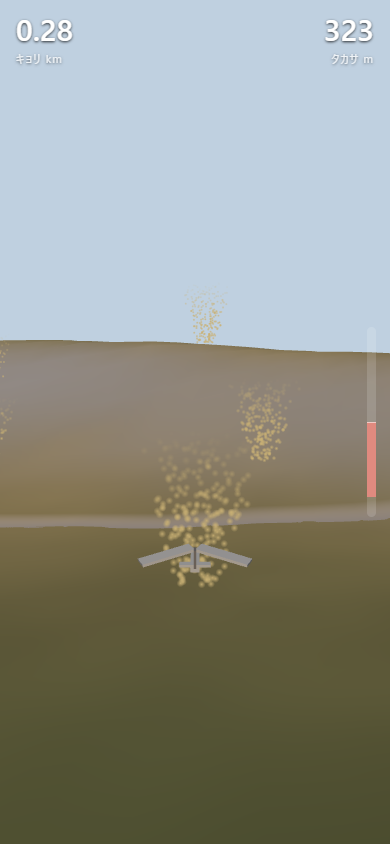
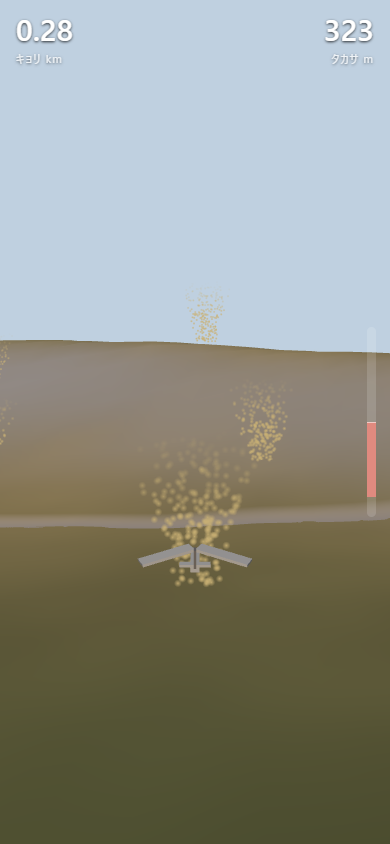
丘の起伏を既定にし、まっすぐ滑空したら着く場所を地面に出した
所長の試走: 尾根の風は分からなかった。2回とも山の斜面に正面から激突。
起伏があるだけで「避けるか越えるか」の戦略になる、という提案を受けた。

- 既定の世界を丘(最大220m)に。尾根の風は既定で無効(?world=flat / ?world=ridge は残す)
- glideReach: 上昇風を当てにせず直進したときの着地点。予測と実際のずれは60件で最大55m
- 着地点をオレンジの輪と柱で表示。旋回中は薄くする。最初は細いクリーム色で見えなかった
- 土ぼこりは画面に大きく映る粒ほど薄く。近い柱が空一面をふさいでいた
- 自動操縦(8シード): 起伏なし8.9km/激突0 → 丘220m 7.5km/上り坂に激突3

Changed region(s): [[0.4, 0.5545, 0.6154, 0.7085], [0.4923, 0.3389, 0.5846, 0.4313], [0.6154, 0.4929, 0.7385, 0.5545]]

diff --git a/src/scene.js b/src/scene.js
@@ -1,5 +1,6 @@
 import * as THREE from 'three';
 import { TUNE } from './world.js';
+import { glideReach } from './flight.js';
 
 // three.jsは右手系で、+X は画面の左に出る。
 // シミュレーション側の x(右が正) をそのまま渡すと左右が反転するので、描画のときだけ反転させる。
@@ -81,11 +82,13 @@ const DUST_VERT = [
   'attribute float aAlpha;',
   'varying float vA;',
   'uniform float uSize;',
+  'uniform float uMax;',
   'void main(){',
   '  float dist = -(modelViewMatrix * vec4(position, 1.0)).z;',
-  '  vA = aAlpha * clamp((dist - 30.0) / 150.0, 0.0, 1.0);',   // 近すぎる粒は消す(視界を塞ぐ)
+  '  vA = aAlpha * clamp((dist - 80.0) / 320.0, 0.0, 1.0);',   // 近い粒は消す。柱の中や真下にいると空一面をふさいでいた
   '  vec4 mv = modelViewMatrix * vec4(position, 1.0);',
-  '  gl_PointSize = clamp(uSize * (900.0 / max(-mv.z, 1.0)), 3.0, 30.0);',
+  '  gl_PointSize = clamp(uSize * (900.0 / max(-mv.z, 1.0)), 3.0, uMax);',
+  '  vA *= clamp(9.0 / gl_PointSize, 0.3, 1.0);',   // 大きく映るほど薄く(近い柱は気配だけ、遠い柱はくっきり)
   '  gl_Position = projectionMatrix * mv;',
   '}',
 ].join('\n');
@@ -113,7 +116,7 @@ class Dust {
     g.setAttribute('aAlpha', new THREE.BufferAttribute(this.alpha, 1));
     this.geo = g;
     this.mat = new THREE.ShaderMaterial({
-      uniforms: { uSize: { value: 9.0 }, uColor: { value: new THREE.Color(0xe6d9b4) }, uFade: { value: 1 } },
+      uniforms: { uSize: { value: 9.0 }, uMax: { value: 18.0 }, uColor: { value: new THREE.Color(0xe6d9b4) }, uFade: { value: 1 } },
       vertexShader: DUST_VERT, fragmentShader: DUST_FRAG,
       transparent: true, depthWrite: false,
     });
@@ -164,7 +167,7 @@ class Clouds {
     g.setAttribute('aAlpha', new THREE.BufferAttribute(this.alpha, 1));
     this.geo = g;
     this.mat = new THREE.ShaderMaterial({
-      uniforms: { uSize: { value: 150.0 }, uColor: { value: new THREE.Color(0xffffff) }, uFade: { value: 1 } },
+      uniforms: { uSize: { value: 150.0 }, uMax: { value: 34.0 }, uColor: { value: new THREE.Color(0xffffff) }, uFade: { value: 1 } },
       vertexShader: DUST_VERT, fragmentShader: DUST_FRAG,
       transparent: true, depthWrite: false,
     });
@@ -256,6 +259,15 @@ export class View {
     this.dust = new Dust(field);
     this.clouds = new Clouds(field);
     this.scene.add(this.dust.points, this.clouds.points);
+    // このまままっすぐ滑空したら着く場所。地面の輪と細い柱で示す
+    const reachMat = new THREE.MeshBasicMaterial({ color: 0xff8a2a, transparent: true, opacity: 0.95,   // 土ぼこり(クリーム)と見分ける色
+      depthTest: false, depthWrite: false, fog: false, side: THREE.DoubleSide });
+    this.reachRing = new THREE.Mesh(new THREE.RingGeometry(0.55, 1, 48), reachMat);
+    this.reachRing.rotation.x = -Math.PI / 2;
+    this.reachPole = new THREE.Mesh(new THREE.CylinderGeometry(1, 1, 1, 6), reachMat);
+    this.reachRing.renderOrder = this.reachPole.renderOrder = 5;
+    this.scene.add(this.reachRing, this.reachPole);
+    this.reach = null;
     this.glider = makeGlider();
     this.scene.add(this.glider);
     this.fog = new THREE.FogExp2(0xbfd0e0, 0.000075);
@@ -309,6 +321,19 @@ export class View {
     this.dust.update(g.x, g.y, dt, sun);
     this.clouds.update(g.x, g.y, sun);
     this.glider.position.set(SX * g.x, g.z, g.y);
+    // 着地点: 旋回中は向きが変わり続けて意味がないので、傾けるほど薄くする
+    const r = this.reach = glideReach(g);
+    const fade = Math.max(0, 1 - Math.abs(g.bank) / (25 * Math.PI / 180));
+    const on = g.alive && r.hit && fade > 0.02;
+    this.reachRing.visible = this.reachPole.visible = on;
+    if (on) {
+      const k = Math.max(28, r.dist * 0.055);               // 遠くても見える大きさ(1km先で約55m)
+      this.reachRing.position.set(SX * r.x, r.z + 2, r.y);
+      this.reachRing.scale.setScalar(k);
+      this.reachPole.position.set(SX * r.x, r.z + k * 1.5, r.y);
+      this.reachPole.scale.set(k * 0.16, k * 3.0, k * 0.16);
+      this.reachRing.material.opacity = 0.95 * fade;
+    }
     this.glider.rotation.set(0, -g.head, g.bank, 'YXZ');
     // 夕暮れ。時計ではなく空の色で残り時間が分かる
     const day = new THREE.Color(0xbfd0e0), dusk = new THREE.Color(0xd98a5a), night = new THREE.Color(0x2b3348);

diff --git a/src/world.js b/src/world.js
@@ -57,6 +57,13 @@ export class Terrain {
         }
       }
       mtn += 0.12 * TUNE.mtnHeight * ridged(x / 1400, y / 1400, this.seed + 71) * smoothstep(TUNE.mtnStart, TUNE.mtnStart + TUNE.mtnRamp, d);
+    } else if (TUNE.mtn && TUNE.mtnMode === 'hills') {
+      // 丘と峠。平らな所を残しつつ、ところどころ越えるか避けるかを迫る高さにする。
+      // 川沿いも完全には平らにしない(川に沿っていれば安全、にならないように)
+      const b = fbm(x / TUNE.mtnWave, y / TUNE.mtnWave, this.seed + 71, 4);
+      const r = ridged(x / (TUNE.mtnWave * 0.8), y / (TUNE.mtnWave * 0.8), this.seed + 83, 3);
+      const shape = Math.max(0, 0.6 * b + 0.4 * r - 0.35) / 0.65;
+      mtn = TUNE.mtnHeight * shape * shape * (0.4 + 0.6 * smoothstep(150, 1300, d));
     } else if (TUNE.mtn) {
       mtn = TUNE.mtnHeight * ridged(x / TUNE.mtnWave, y / (TUNE.mtnWave * 2.6), this.seed + 71)
         * smoothstep(TUNE.mtnStart, TUNE.mtnStart + TUNE.mtnRamp, d);
@@ -107,6 +114,8 @@ export const TUNE = {
 // 尾根の試作で、尾根沿いに飛べると測れた山脈の設定(tools/ridge-band.mjs: 86%の区間で高度を保てる・最長2.5km・斜面から150m)
 export const WORLDS = {
   flat: {},
+  // 既定。尾根の風は使わず、起伏そのものを「避けるか越えるか」の判断にする(所長の試走 2026-09-17)
+  hills: { mtn: 1, mtnMode: 'hills', mtnHeight: 220, mtnWave: 2400 },
   ridge: { mtn: 1, mtnMode: 'ranges', mtnHeight: 550, rangeWidth: 700, windSpeed: 11, ridgeH: 240, leeCap: 2.5 },
 };
 

diff --git a/src/flight.js b/src/flight.js
@@ -15,6 +15,19 @@ export const sink = V => AIR.c1 / V + AIR.c2 * V * V;
 export const glideRatio = V => V / sink(V);
 // 実際に届く距離は、上昇風の外の沈下こみで決まる。ここを忘れると届かない柱へ突っ込む。
 export const effGlide = V => V / (sink(V) + TUNE.ambient);
+// このまま同じ向きにまっすぐ滑空したら、どこで地面に着くか。上昇風は当てにしない。
+// 地面にぶつかる危険は、いつでも画面から読めるようにするための計算
+export function glideReach(g, maxDist = 9000, step = 60) {
+  const V = AIR.Vcruise, drop = step / effGlide(V);
+  const sx = Math.sin(g.head), sy = Math.cos(g.head);
+  let x = g.x, y = g.y, z = g.z;
+  for (let d = step; d <= maxDist; d += step) {
+    x += sx * step; y += sy * step; z -= drop;
+    const h = g.t.height(x, y);
+    if (z <= h + 2) return { x, y, z: h, dist: d, hit: true };
+  }
+  return { x, y, z: g.t.height(x, y), dist: maxDist, hit: false };
+}
 export const sunlight = t => { const u = Math.max(0, Math.min(1, t / AIR.day)); return Math.max(0, 1 - u * u); };
 
 export class Glider {

diff --git a/src/main.js b/src/main.js
@@ -23,7 +23,7 @@ const ui = {
   start: el('start'), go: el('go'),
 };
 
-const WORLD = WORLDS[q.get('world')] ? q.get('world') : 'flat';
+const WORLD = WORLDS[q.get('world')] ? q.get('world') : 'hills';   // 既定は丘のある世界。?world=flat で起伏なし
 Object.assign(TUNE, WORLDS[WORLD]);
 if (WORLD === 'ridge') {
   const p = document.querySelector('#start p');
@@ -174,6 +174,7 @@ window.__slice = {
   ridgeAt(x, y, z) { return field.ridgeAt(x, y, z, sunlight(glider.time)); },
   terrainHeight(x, y) { return terrain.height(x, y); },
   riverX(y) { return terrain.riverX(y); },
+  reach() { return view.reach; },
   forceInput: null,
   _view() { return { camHead: view.camHead, dust: view.dust.points, clouds: view.clouds.points,
                      local: (x, y, z) => view.projectLocal(x, y, z),

diff --git a/index.html b/index.html
@@ -60,7 +60,8 @@
       操作は左右だけ。<kbd>←</kbd><kbd>→</kbd>、スマホは画面の左半分／右半分を押しっぱなし。<br>
       押している間だけ曲がります。<br><br>
       右の帯と音が上がっていれば、上昇気流の芯に近い。<br>
-      日が傾くと空気は上がらなくなります。降りたところが記録。
+      日が傾くと空気は上がらなくなります。降りたところが記録。<br>
+      地面の光る輪は、このまままっすぐ滑空したら着く場所。丘の手前に落ちたら越えられません。
     </p>
     <div id="cams" role="radiogroup" aria-label="カメラ">
       <button type="button" data-cam="a" role="radio">水平キープ</button>

diff --git a/docs/FINDINGS.md b/docs/FINDINGS.md
@@ -153,3 +153,29 @@ Astraに山を頼む前に、使える寸法を決めるための試作。
 ### Astraに頼むなら（この試作から決まった条件）
 - 形: 進行方向に長くつながった山脈。高さ約550m、裾の広さ約700m（最大傾斜およそ34度）、2.5kmおきに鞍部
 - 受け渡し: 見た目のモデルではなく、飛行計算が読める形（高さマップ16bit PNG、または作り方の式）
+
+## 尾根の風は不採用 → 丘の起伏と着地点の印（2026-09-17 所長の試走から）
+
+所長: 「山風はよくわからんかった」。2回とも山の斜面に正面から激突して終わった（高度2m、斜面が目の前）。
+→ 後ろから追うカメラでは「この先の山を越えられるか」が読めない。尾根の風は見えない上昇と斜面すれすれの怖さが重なる。
+所長の提案: 起伏があるだけで「避けるか越えるか」の戦略になる。山へ向かうと地面との余裕は必然的に削られる。
+
+**変えたこと**
+- 既定の世界を「丘」に（`WORLDS.hills`、高さ最大220m、平地を残す）。尾根の風は既定で無効。`?world=flat` で起伏なし、`?world=ridge` は残す
+- **このまままっすぐ滑空したら着く場所**をオレンジの輪と柱で地面に出す（上昇風は当てにしない計算）。旋回中は傾けるほど薄くする
+  - 予測と実際の着地点のずれ: 60件で最大55m（tools/check-reach.mjs）
+  - 最初は色がクリームで細く、土ぼこりに埋もれて見えなかった。オレンジ・太く・1km先で約55mの大きさにした
+- 土ぼこりは画面に大きく映る粒ほど薄く（近い柱が空一面をふさいでいた）。手がかりの面積 3.7% → 2.8%（遠い柱は変わらず）
+
+**自動操縦での比較（tools/tune-hills.mjs、8シード）**
+
+| 条件 | 飛距離 | 静かな空気を滑るだけの最長 | 上り坂に激突して終わり |
+|---|---|---|---|
+| 起伏なし | 8.9km | 60秒 | 0/8 |
+| 丘160m | 7.2km | 62秒 | 1/8 |
+| **丘220m（採用）** | **7.5km** | **20秒** | **3/8** |
+| 丘300m | 6.2km | 14秒 | 2/8 |
+
+自動操縦は着地点の印を使わない。激突の数は「起伏が危険として効いている」証拠であって、面白さの証拠ではない。
+
+**将来像（所長 2026-09-17）**: 大きめの山・木を配置し、ステゴサウルス以外の恐竜もAstraに作らせ、生活している様子を見ながら飛ぶ。

diff --git a/README.md b/README.md
@@ -20,6 +20,8 @@ npm run dev     # http://localhost:8141
 - 操作は**左右だけ**。`←` `→`（`A` `D`）、スマホは画面の左半分／右半分を押しっぱなし
 - 押している間だけ曲がる。速度は自動（傾けると勝手に減速する）
 - 上がる空気の場所は**舞い上がる土ぼこりの柱**で分かる。数字も矢印も出さない
+- 地面の**オレンジの輪**は、このまままっすぐ滑空したら着く場所。丘の手前に落ちたら越えられない
+- 既定は丘のある世界。`?world=flat` で起伏なし、`?world=ridge` で尾根の風の試作
 - 右の帯と音が上昇率。芯に近いほど高く速く鳴る
 - 日が傾くと空気は上がらなくなる。降りたところが記録
 - `?seed=17` で同じ地形を再現。`R` またはダブルタップでやり直し
